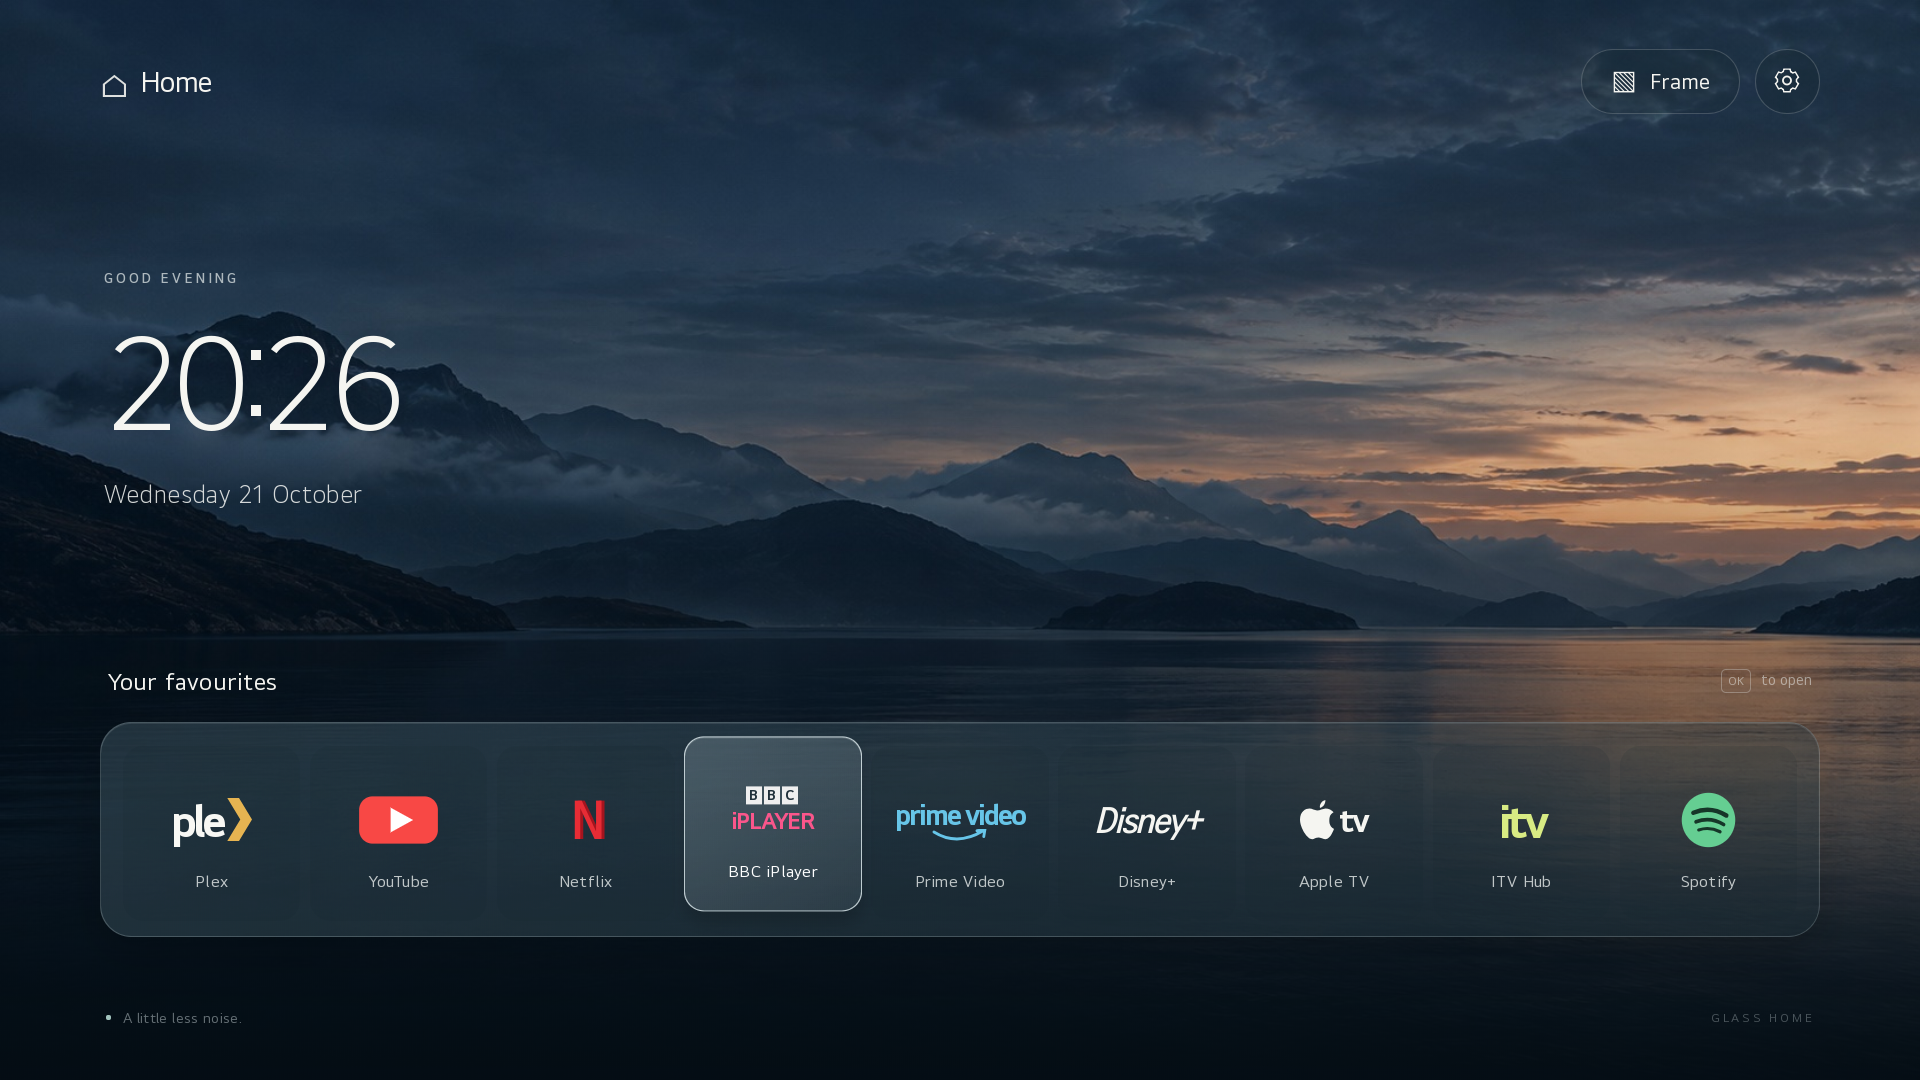
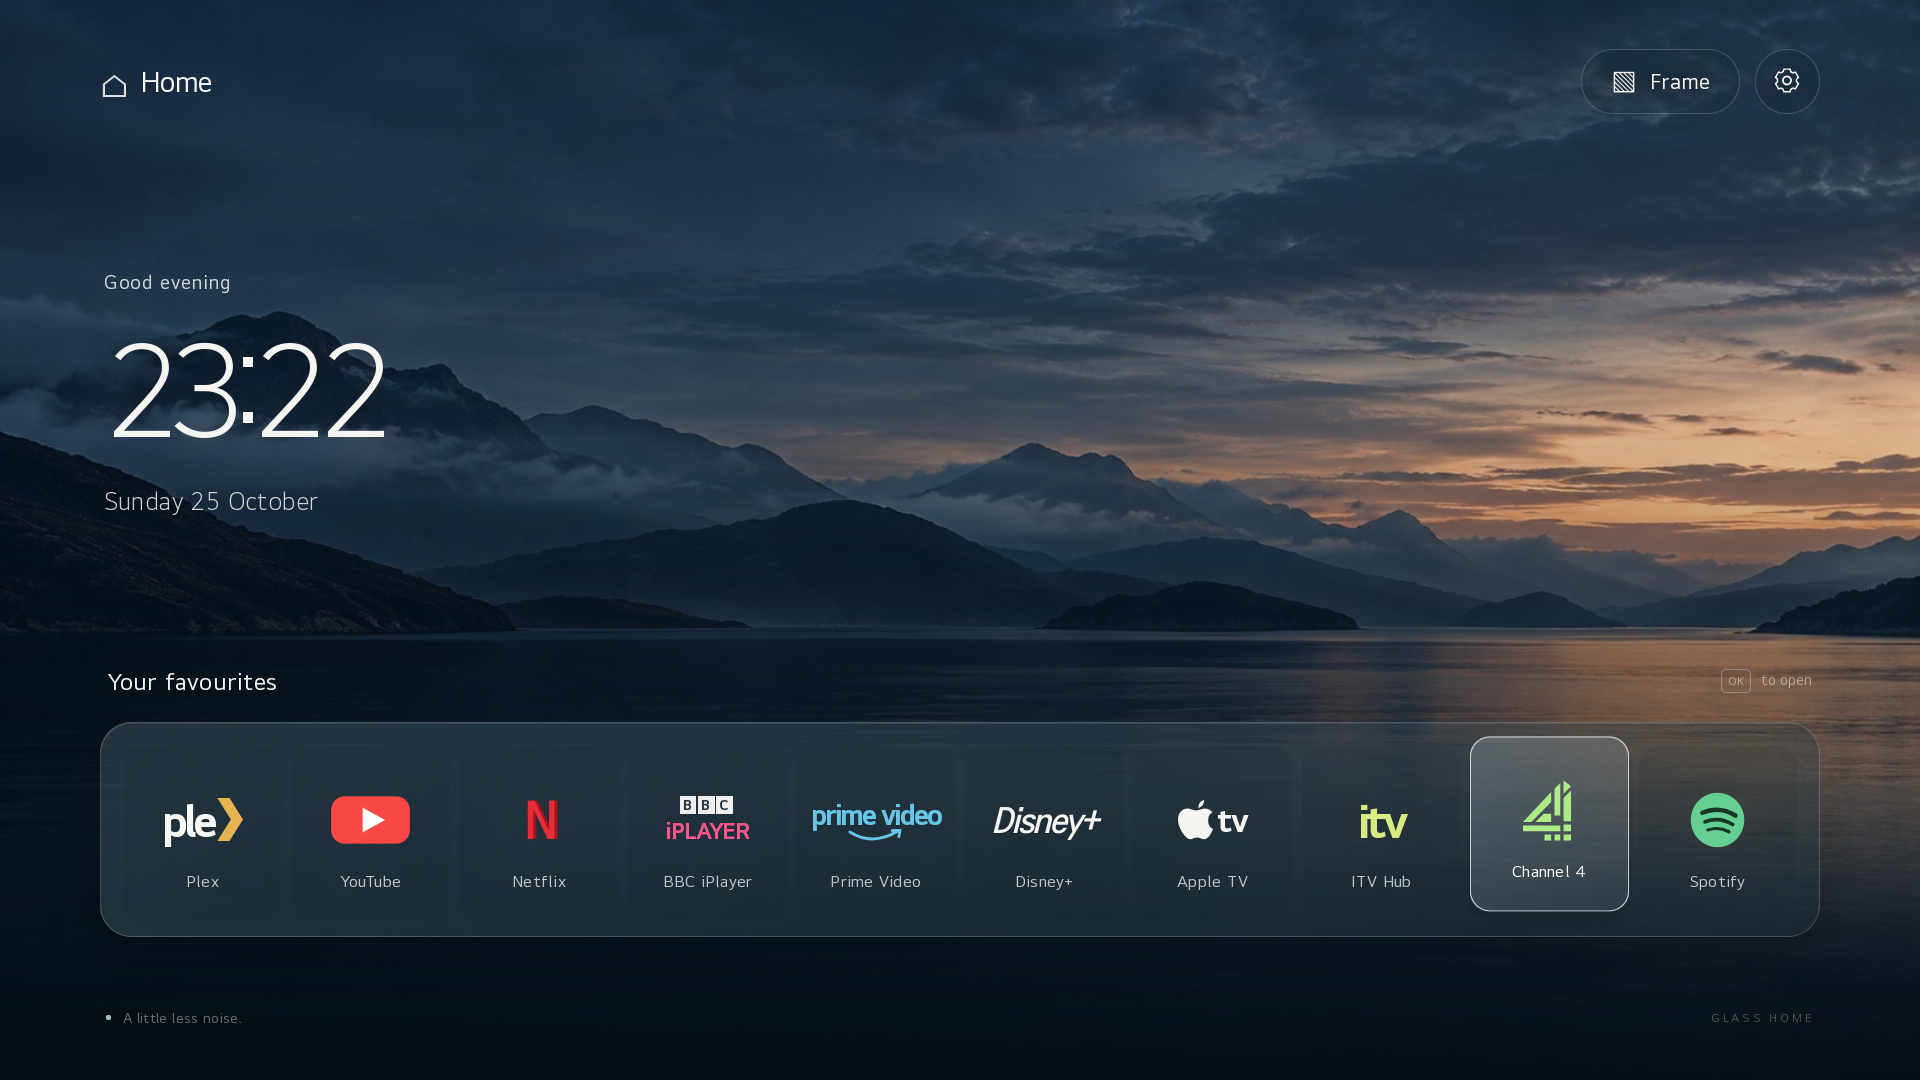
Add Channel 4 to the quick-launch bar

diff --git a/app/style.css b/app/style.css
@@ -1,6 +1,7 @@
 *{box-sizing:border-box}html,body{margin:0;width:100%;height:100%;overflow:hidden;background:#101c24;color:#f5f5f1;font-family:"LG Smart UI",Arial,sans-serif}button{font:inherit;color:inherit;cursor:pointer;border:0;background:none;-webkit-tap-highlight-color:transparent}button:focus{outline:none}button:focus-visible{outline:2px solid #fff}.hidden{display:none!important}.landscape,.scrim{position:fixed;inset:0;top:0;right:0;bottom:0;left:0}.landscape{background:#17303b url('assets/loch.jpg') center center/cover no-repeat}.scrim{background:linear-gradient(180deg,rgba(7,17,26,.18) 0%,rgba(5,13,21,.03) 35%,rgba(6,15,22,.6) 80%,rgba(5,13,19,.88) 100%)}#home{position:relative;width:100%;height:100%;padding:4.5vh 5.2vw}header{display:flex;justify-content:space-between;align-items:center}.identity{display:flex;align-items:center;font-size:1.55vw;letter-spacing:-.03em}.home-mark{font-size:2.25vw;font-weight:300;line-height:1;margin-right:.7vw;opacity:.9}nav{display:flex;align-items:center}.pill{height:3.4vw;min-height:40px;padding:0 1.5vw;margin-left:.8vw;border:1px solid rgba(255,255,255,.18);border-radius:50px;background:rgba(19,35,43,.28);font-size:1.15vw;display:flex;align-items:center;justify-content:center;transition:background .16s,transform .16s,border-color .16s}.pill:focus,.pill:hover{background:rgba(236,245,246,.18);border-color:rgba(255,255,255,.7);transform:translateY(-2px)}.line-icon{font-size:1.6vw;margin-right:.65vw;line-height:1}.icon-button{width:3.4vw;padding:.85vw}.icon-button svg{width:100%;height:100%;fill:none;stroke:currentColor;stroke-width:1.4}.clock-block{position:absolute;left:5.4vw;top:25vh}.eyebrow{font-size:.74vw;letter-spacing:.22em;color:rgba(240,246,245,.68);font-weight:600}.clock-block time{display:block;font-size:7.2vw;font-weight:300;letter-spacing:-.07em;line-height:1.2;margin:1vh 0 1.5vh;font-variant-numeric:tabular-nums;text-shadow:0 2px 25px rgba(0,0,0,.1)}#date{font-size:1.35vw;color:rgba(246,247,245,.85);font-weight:300;letter-spacing:.015em}.apps-section{position:absolute;left:5.2vw;right:5.2vw;bottom:13.2vh}.section-top{display:flex;justify-content:space-between;align-items:center;margin:0 .4vw 2.5vh}h1{font-size:1.3vw;font-weight:400;letter-spacing:.01em;margin:0}.remote-hint{font-size:.78vw;color:rgba(240,245,245,.5)}.ok-key{font-size:.64vw;display:inline-block;border:1px solid rgba(240,245,245,.3);border-radius:5px;padding:.2vw .3vw;margin-right:.35vw}.glass-shelf{position:relative;padding:1.2vw .9vw .8vw;border-radius:1.65vw;border:1px solid rgba(231,244,246,.2);background:linear-gradient(135deg,rgba(92,122,135,.32),rgba(30,49,59,.42));box-shadow:0 16px 60px rgba(0,0,0,.16),inset 0 1px rgba(255,255,255,.09)}.apps{display:flex;align-items:stretch}.app-tile{position:relative;flex:1;min-width:0;margin:0 .25vw;padding:1vw .35vw .8vw;border-radius:1.05vw;border:1px solid transparent;transition:transform .16s,background .16s,border-color .16s;display:flex;flex-direction:column;align-items:center;justify-content:center;background:rgba(15,29,39,.12);height:9.1vw}.app-tile:focus,.app-tile:hover{background:linear-gradient(140deg,rgba(204,225,231,.22),rgba(203,224,233,.09));border-color:rgba(235,247,250,.75);transform:translateY(-.5vw);box-shadow:0 12px 25px rgba(0,0,0,.16),inset 0 1px rgba(255,255,255,.15)}.brand{height:4.1vw;width:100%;display:flex;align-items:center;justify-content:center;font-size:2.1vw;font-weight:700;letter-spacing:-.08em}.brand svg{height:2.8vw;width:auto;max-width:5.2vw}.brand.plex{font-size:2.45vw;font-weight:700;color:#f8f8f4}.plex b{color:#e6b451;font-weight:700;margin-left:-.1vw}.brand.netflix{font-size:2.8vw;color:#e72c35;font-family:Arial,sans-serif;font-weight:900;text-shadow:3px 0 #a5141e}.brand.iplayer{font-size:1.2vw;flex-direction:column;letter-spacing:-.045em;color:#fa568b}.bbc-boxes{font-size:.75vw;letter-spacing:.1em;display:flex;margin-bottom:.15vw}.bbc-boxes span{display:block;color:#20303a;background:#efefef;padding:.05vw .15vw;margin-right:.1vw}.brand.prime{font-size:1.55vw;letter-spacing:-.07em;color:#67c5e8;flex-direction:column}.prime svg{height:.7vw;margin-top:-.15vw;width:3.4vw;max-width:none}.brand.disney{font-family:Georgia,serif;font-size:1.9vw;font-style:italic;font-weight:500;letter-spacing:-.06em}.brand.apple{font-size:1.8vw;letter-spacing:-.05em}.apple svg{height:2.1vw;margin-right:.25vw}.brand.itv{font-size:2.55vw;color:#d8eb83;font-weight:900;letter-spacing:-.1em}.brand.spotify svg{height:3vw}.tile-label{display:block;font-size:.88vw;color:rgba(243,247,246,.76);margin-top:.6vw;white-space:nowrap;font-weight:400;letter-spacing:.015em}.app-tile:focus .tile-label{color:#fff}footer{position:absolute;bottom:5vh;left:5.5vw;right:5.5vw;display:flex;align-items:center;font-size:.76vw;letter-spacing:.025em;color:rgba(227,239,240,.43)}.quiet-dot{width:.3vw;height:.3vw;border-radius:50%;background:#a2c3bd;margin-right:.6vw}.footer-right{margin-left:auto;font-size:.65vw;letter-spacing:.22em;opacity:.7}.modal{position:fixed;top:0;right:0;bottom:0;left:0;display:flex;align-items:center;justify-content:center;background:rgba(6,12,18,.75);z-index:10}.modal-card{width:48vw;max-height:86vh;overflow:auto;background:linear-gradient(135deg,#283c47,#162732);border:1px solid #657680;border-radius:1.5vw;padding:2.5vw;box-shadow:0 30px 100px #0006}.modal-head{display:flex;align-items:center;justify-content:space-between;margin-bottom:2vw}h2{font-size:2.35vw;font-weight:400;letter-spacing:-.035em;margin:.6vw 0 0}.close-button{font-size:2vw;border:1px solid #ffffff30;width:2.6vw;height:2.6vw;line-height:1;border-radius:50%;color:#c5d0d6}.close-button:focus,.close-button:hover{background:#ffffff30;border-color:white}.modal p{font-size:1.05vw;line-height:1.7;color:#bdcbd1;margin:.8vw 0 1.5vw}.modal-actions{display:flex;flex-wrap:wrap;margin:-.3vw}.action{display:block;text-align:left;border:1px solid #ffffff25;border-radius:.65vw;padding:1vw 1.2vw;background:#ffffff08;font-size:1.05vw;margin:.3vw}.action:focus,.action:hover{background:#ffffff20;border-color:#e2edf3}.action.primary{background:#dce8e8;color:#132d37;border-color:#dce8e8}.settings-row{display:flex;align-items:center;justify-content:space-between;border-bottom:1px solid #ffffff13;padding:.7vw 0;font-size:1vw}.settings-row .action{min-width:8vw;text-align:center}.access-box{border:1px solid #ffffff25;background:#0b192466;padding:1.5vw;border-radius:.8vw;margin-bottom:1.2vw}.access-box code{display:block;font-size:1.4vw;word-break:break-all;color:#f1f5eb;margin:.5vw 0;font-family:monospace}.access-box small{font-size:.8vw;color:#9cafba}.frame{position:fixed;top:0;right:0;bottom:0;left:0;background:#000;z-index:5}.frame img{width:100%;height:100%;object-fit:contain}.frame-help{position:absolute;bottom:4vh;left:50%;transform:translateX(-50%);background:#101e28c9;border:1px solid #ffffff30;padding:1vw 1.4vw;border-radius:50px;white-space:nowrap;font-size:1vw;transition:opacity .5s}.frame-help span{margin-left:2vw}.toast{position:fixed;bottom:4vh;left:50%;max-width:70vw;transform:translateX(-50%);background:#162730;border:1px solid #91a5af70;box-shadow:0 5px 30px #0005;padding:1vw 1.6vw;border-radius:.75vw;z-index:20;font-size:1.05vw;text-align:center}.muted{color:#9db0bd!important}.fine-print{font-size:.8vw!important}.photo-count{font-size:.9vw;color:#a9c3ca;margin-bottom:1vw}.loading{opacity:.65}.preview-note{color:#d8b985}.idle #home{opacity:.4}#home{transition:opacity 2s}@media(max-aspect-ratio:4/3){.apps{flex-wrap:wrap}.app-tile{flex:0 0 30%;height:12vw}.apps-section{bottom:12vh}.clock-block{top:16vh}.modal-card{width:75vw}.tile-label{font-size:1.5vw}.pill,.action,.modal p,.settings-row,.toast{font-size:1.5vw}}@media(prefers-reduced-motion:reduce){*{transition:none!important}}
 
 .brand.plex svg{height:2.25vw;width:1.4vw;margin-left:.1vw}
+.brand.channel4{color:#adeb86}.brand.channel4 svg{height:3.1vw}
 
 #greeting{font-size:1.05vw;letter-spacing:.045em;font-weight:400;color:rgba(240,246,245,.85)}
 

diff --git a/app/app.js b/app/app.js
@@ -15,6 +15,7 @@
   disney:'Disney<span>+</span>',
   apple:'<svg viewBox="0 0 24 28" aria-hidden="true"><path fill="currentColor" d="M17.9 0c.2 2.4-1.4 5-3.8 5.6-.6-2.1 1.3-5.2 3.8-5.6zM20.7 14.8c0 4 3.3 5.3 3.3 5.3s-2.4 7.3-6 7.3c-1.7 0-2.3-1.1-4.7-1.1s-3.2 1.2-4.7 1.2C5 27.5 0 19.4 0 13.7 0 8 4 6 6.7 6c2 0 3.4 1.3 5.4 1.3S16 6 18 6c2.3 0 4.3 1 5.7 2.6-3 1.7-3 4.1-3 6.2z"/></svg>tv',
   itv:'itv',
+  channel4:'<svg viewBox="0 0 64 72" aria-hidden="true"><path fill="currentColor" d="M38 10l7-7v39h-7zM49 0l9 7-9 9zM49 21l9-9v37h-9zM34 14v12L10 50H0zM25 40h9v10H15zM0 54h45v7H0zM38 65h7v7h-7zM26 65h8v7h-8zM49 53h9v8h-9zM49 65h9v7h-9z"/></svg>',
   spotify:'<svg viewBox="0 0 64 64" aria-hidden="true"><circle cx="32" cy="32" r="30" fill="#65ce92"/><g fill="none" stroke="#163628" stroke-linecap="round"><path d="M15 24q19-8 37 3" stroke-width="5"/><path d="M18 34q16-6 31 3" stroke-width="4"/><path d="M21 43q12-4 24 2" stroke-width="3.5"/></g></svg>'
  };
  config.apps.forEach(function(app,i){var button=document.createElement('button');button.className='app-tile';button.setAttribute('aria-label','Open '+app.name);button.setAttribute('data-app',app.id);button.innerHTML='<span class="brand '+app.brand+'">'+logos[app.brand]+'</span><span class="tile-label"></span>';button.querySelector('.tile-label').textContent=app.name;button.addEventListener('focus',function(){selected=i;save('glass.focus',String(i));});button.addEventListener('click',function(){launch(app.id,app.name);});apps.appendChild(button);});
@@ -61,7 +62,7 @@
   if(frameActive){e.preventDefault();help();if(key==='Back')stopFrame();else if(key==='ArrowRight'){setPhoto(1);schedule();}else if(key==='ArrowLeft'){setPhoto(-1);schedule();}else if(key==='Enter'){paused=!paused;schedule();toast(paused?'Frame paused. The session timer is still running.':'Frame resumed.');}return;}
   if(!$('modal').classList.contains('hidden')){if(key==='Back'){e.preventDefault();closeModal();return;}var nodes=Array.prototype.slice.call($('modal').querySelectorAll('button:not([disabled])'));var i=nodes.indexOf(document.activeElement);if(['ArrowRight','ArrowDown','ArrowLeft','ArrowUp','Tab'].indexOf(key)>=0){e.preventDefault();var delta=key==='ArrowLeft'||key==='ArrowUp'||(key==='Tab'&&e.shiftKey)?-1:1;nodes[(i+delta+nodes.length)%nodes.length].focus();}return;}
   if(key==='Back'){e.preventDefault();focusApp();return;}var isApp=document.activeElement.classList.contains('app-tile');
-  if(isApp&&['ArrowLeft','ArrowRight'].indexOf(key)>=0){e.preventDefault();selected=core.moveFocus(selected,key,9,9);focusApp();}
+  if(isApp&&['ArrowLeft','ArrowRight'].indexOf(key)>=0){e.preventDefault();selected=core.moveFocus(selected,key,config.apps.length,config.apps.length);focusApp();}
   else if(isApp&&key==='ArrowUp'){e.preventDefault();$('frame-button').focus();}
   else if(!isApp&&key==='ArrowDown'){e.preventDefault();focusApp();}
   else if(!isApp&&(key==='ArrowLeft'||key==='ArrowRight')){e.preventDefault();(document.activeElement===$('frame-button')?$('settings-button'):$('frame-button')).focus();}

diff --git a/app/config.js b/app/config.js
@@ -8,4 +8,5 @@ window.DashboardConfig={greetingName:'',port:18765,token:'',tvAddress:'TV_IP_ADD
  {id:'com.disney.disneyplus-prod',name:'Disney+',brand:'disney'},
  {id:'com.apple.appletv',name:'Apple TV',brand:'apple'},
  {id:'com.fvp.itv',name:'ITV Hub',brand:'itv'},
+ {id:'com.channel4.ondemand',name:'Channel 4',brand:'channel4'},
  {id:'spotify-beehive',name:'Spotify',brand:'spotify'}]};

diff --git a/README.md b/README.md
@@ -15,7 +15,7 @@ Your favourite apps, your photographs, and room to breathe.
 
 [Explore the interface](#made-for-the-living-room) · [Try it locally](#try-it-locally) · [Install on your TV](docs/INSTALL.md) · [Recovery](docs/RECOVERY.md)
 
-<img src="docs/assets/dashboard.png" alt="Glass Home running on an LG CX: a dusk landscape, a large clock, and nine translucent app tiles" width="100%">
+<img src="docs/assets/dashboard.png" alt="Glass Home running on an LG CX: a dusk landscape, a large clock, and ten translucent app tiles including Channel 4" width="100%">
 
 **No dashboard ads** &nbsp; · &nbsp; **No analytics** &nbsp; · &nbsp; **No frontend framework** &nbsp; · &nbsp; **Local-first**
 
@@ -27,7 +27,7 @@ Glass Home keeps the screen calm: a full-screen landscape, a legible clock and a
 
 | A considered home | A personal frame |
 | --- | --- |
-| Nine native streaming-app shortcuts | Photographs stored on your TV |
+| Ten native streaming-app shortcuts | Photographs stored on your TV |
 | Directional remote and Magic Remote pointer | Upload from a phone or computer |
 | Direct access to TV Settings | Fit or fill, brightness and slideshow speed |
 | Original LG Home available for recovery | Pause, previous/next and timed sessions |
@@ -36,7 +36,7 @@ Glass Home keeps the screen calm: a full-screen landscape, a legible clock and a
 Your optional greeting follows the time of day: **Good evening, Alex and Sam**. Names stay in your private installation settings.
 
 **The default shelf**<br>
-Plex · YouTube · Netflix · BBC iPlayer · Prime Video · Disney+ · Apple TV · ITV Hub · Spotify
+Plex · YouTube · Netflix · BBC iPlayer · Prime Video · Disney+ · Apple TV · ITV Hub · Channel 4 · Spotify
 
 Change the names, order and installed app IDs in [`app/config.js`](app/config.js). The shortcuts open the TV's native apps; LGGlassUI does not proxy their content or manage streaming accounts.
 
@@ -72,7 +72,7 @@ npm test
 
 **Full Home-button and startup integration requires a rooted TV with webOSbrew.** This repository does not root your television or include a universal root exploit.
 
-1. Download and extract **LGGlassUI-v1.3.0-setup.zip** from the [latest release](https://github.com/PaulButtle/LGGlassUI/releases/latest).
+1. Download and extract **LGGlassUI-v1.3.1-setup.zip** from the [latest release](https://github.com/PaulButtle/LGGlassUI/releases/latest).
 2. Open a terminal in the extracted folder and run `node setup.cjs`.
 3. Enter your TV address, SSH port/key and optional greeting names.
 

diff --git a/docs/INSTALL.md b/docs/INSTALL.md
@@ -8,7 +8,7 @@ Only the LG CX configuration in [compatibility](COMPATIBILITY.md) has been teste
 
 ## 1. Download and open setup
 
-Download **LGGlassUI-v1.3.0-setup.zip** from the [latest release](https://github.com/PaulButtle/LGGlassUI/releases/latest), extract it, and open a terminal inside the extracted `LGGlassUI-v1.3.0` folder.
+Download **LGGlassUI-v1.3.1-setup.zip** from the [latest release](https://github.com/PaulButtle/LGGlassUI/releases/latest), extract it, and open a terminal inside the extracted `LGGlassUI-v1.3.1` folder.
 
 ```sh
 node setup.cjs
@@ -33,7 +33,7 @@ Setup verifies the release files, checks root access, installs the app and local
 
 Open the app shortcuts, TV Settings, and **Settings → Open LG Home**. Open Glass Home again from LG's app list. For photos, choose **Settings → Photo collection**, visit the displayed address on your phone or computer, and enter the private key shown on the TV. Choose **Frame → Start Frame** to display your collection.
 
-The default nine app IDs are UK/CX defaults. For another region, use a source checkout and edit `app/config.js` before packaging. Do not edit the release ZIP's verified payload in place.
+The default ten app IDs are UK/CX defaults. For another region, use a source checkout and edit `app/config.js` before packaging. Do not edit the release ZIP's verified payload in place.
 
 ## 3. Make it your Home screen (optional)
 

diff --git a/docs/COMPATIBILITY.md b/docs/COMPATIBILITY.md
@@ -9,7 +9,7 @@ Other models, regions, firmware versions and native app IDs are unverified.
 ## Verified
 
 - The physical Home key opens Glass Home; key code 773 on this remote.
-- All nine default application IDs, TV Settings and stock LG Home return successful native launch responses. Plex was also checked as foreground. This does not certify account access or media playback in every service.
+- The original nine default application IDs, TV Settings and stock LG Home return successful native launch responses. Plex was also checked as foreground. Channel 4 (`com.channel4.ondemand`) was added in 1.3.1 and checked as foreground after opening its dashboard tile; directional navigation reached all ten shortcuts. This does not certify account access or media playback in every service.
 - The installed UI renders correctly on the TV. JavaScript readiness measured roughly 0.3–0.4 seconds; this excludes complete TV boot and image decoding.
 - A real uploaded 1672 × 941 photograph renders in Frame. The collection survives restart. Upload conversion, authentication, ordering and removal are covered by service/browser checks.
 - Original LG Home remains installed and was visually checked. Independent recovery restores stock Home routing.

diff --git a/docs/ARCHITECTURE.md b/docs/ARCHITECTURE.md
@@ -16,7 +16,7 @@ flowchart LR
 
 ## TV application
 
-`app/` contains an offline HTML/CSS/JavaScript app targeting Chromium 68. It uses `PalmServiceBridge` to launch installed applications. The nine default IDs are configurable in `app/config.js`. Navigation and stored preferences are validated in `app/core.js`.
+`app/` contains an offline HTML/CSS/JavaScript app targeting Chromium 68. It uses `PalmServiceBridge` to launch installed applications. The ten default IDs are configurable in `app/config.js`. Navigation and stored preferences are validated in `app/core.js`.
 
 Photo access uses localhost port 18765. The Content Security Policy limits runtime connections to that local service; no remote fonts, tracking scripts, content feeds or recommendation APIs are loaded.
 

diff --git a/CHANGELOG.md b/CHANGELOG.md
@@ -1,5 +1,10 @@
 # Changelog
 
+## 1.3.1 — 2026-10-25
+
+- Add Channel 4 beside ITV Hub in the quick-launch bar.
+- Remote navigation follows the configured app count, including all ten default shortcuts.
+
 ## 1.3.0 — 2026-10-21
 
 - Choose **LG Fireworks** or **Frame Photographs** in Glass Home Settings.
